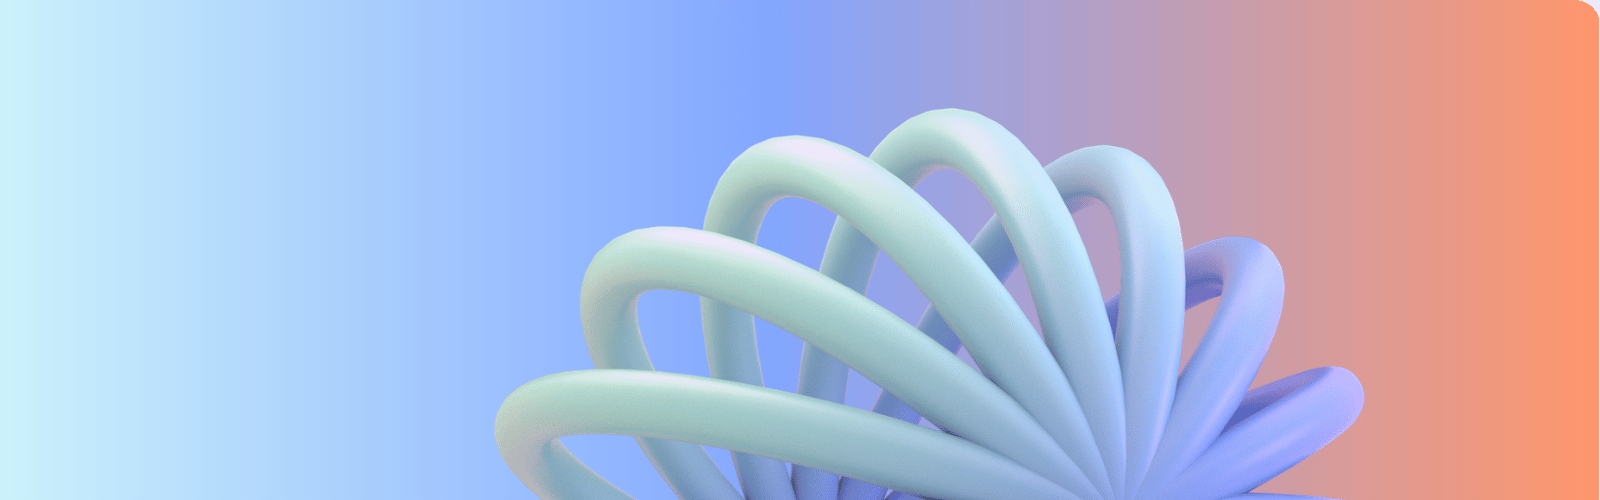
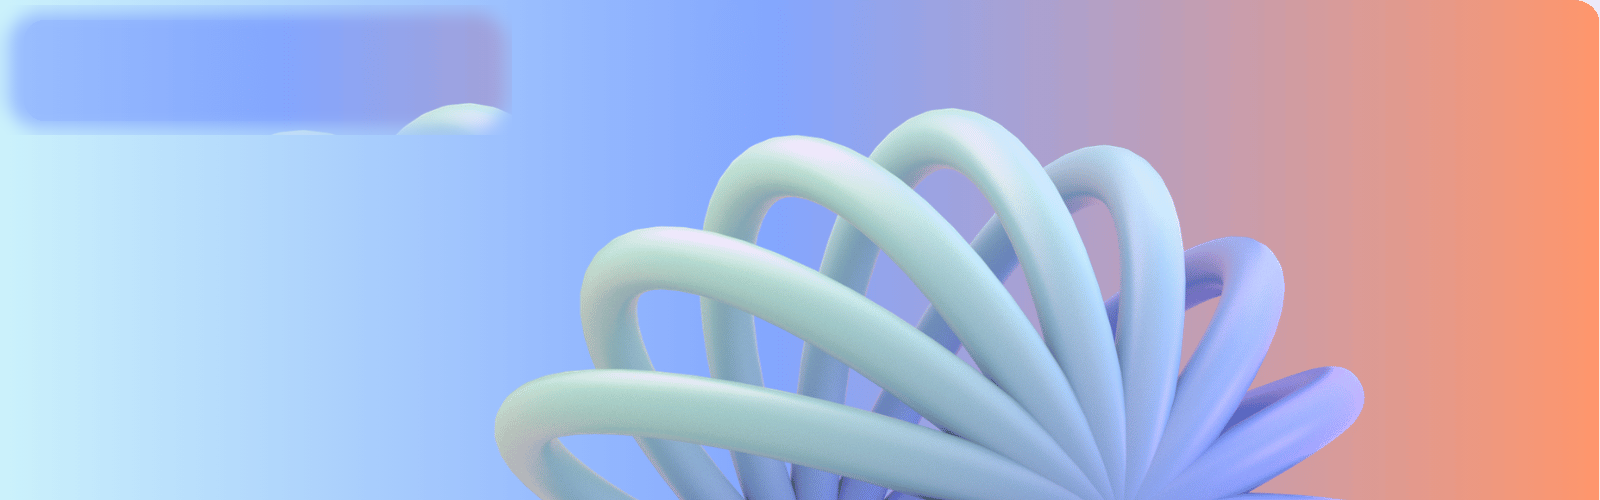
Add files via upload

Changed region(s): [[0.0, 0.0, 0.3125, 0.27]]

diff --git a/src/app/page.tsx b/src/app/page.tsx
@@ -98,7 +98,10 @@ export default function Home() {
           ))}
         </div>
 
-        <a href="/anlurich-app.apk" download className="block w-full text-center bg-[#1e3a8a] text-white rounded-xl px-4 py-3 mb-2 text-lg font-black shadow">Download Anlurich APP</a>
+        <div className="grid grid-cols-1 md:grid-cols-2 gap-3 mb-3">
+          <a href="/api/download-app" className="text-center bg-[#1e3a8a] text-white rounded-xl px-4 py-4 text-lg font-black shadow">Download Android App</a>
+          <a href="/iphone" className="text-center bg-black text-white rounded-xl px-4 py-4 text-lg font-black shadow">Download iPhone/iPad App</a>
+        </div>
 
         <div className="flex-1 rounded-xl overflow-hidden mb-2 shadow bg-white min-h-0 relative">
           {banner ? (
@@ -106,7 +109,6 @@ export default function Home() {
           ) : (
             <div className="w-full h-full bg-gradient-to-r from-sky-200 via-blue-100 to-orange-200" />
           )}
-          <a href="/anlurich-app.apk" download className="absolute top-3 left-3 bg-[#1e3a8a] text-white rounded-lg px-3 py-2 text-xs md:text-sm font-black shadow">Android App</a>
         </div>
 
         <div className="text-sm font-semibold mb-2 text-center md:text-right">Powered & Designed by Anlu</div>
